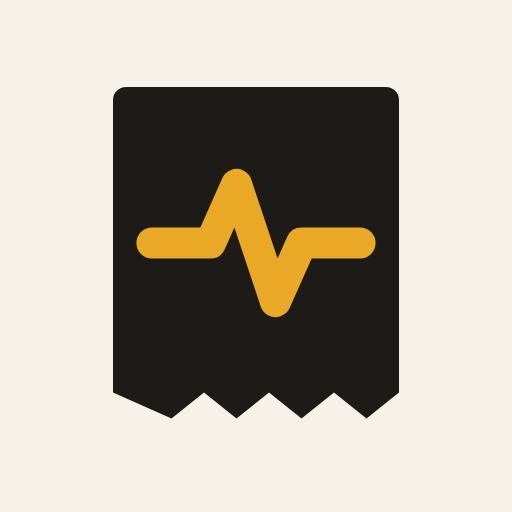
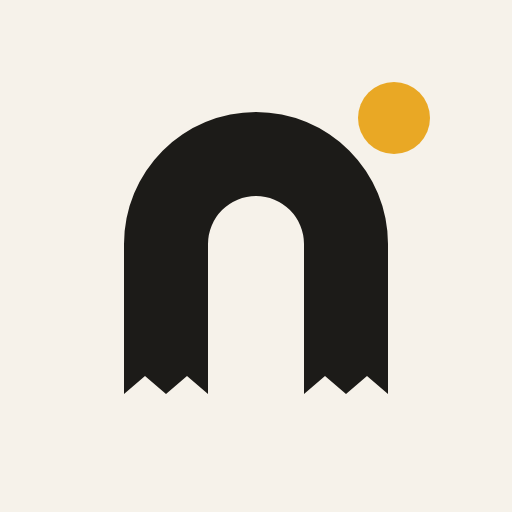
D-10 tanda Nadi baru: n dari kertas nota sobek dengan titik denyut

Changed region(s): [[0.2188, 0.1562, 0.8438, 0.8125]]

diff --git a/apps/web/src/components/ui/logo-jalur.test.ts b/apps/web/src/components/ui/logo-jalur.test.ts
@@ -1,0 +1,28 @@
+import { describe, expect, it } from "vitest";
+import { JALUR_N, KOTAK_TANDA, TITIK, svgTanda } from "./logo-jalur";
+
+const angka = (d: string) => (d.match(/-?\d+(\.\d+)?/g) ?? []).map(Number);
+
+describe("tanda Nadi", () => {
+  it("semua titik jalur di dalam kotak 32", () => {
+    for (const n of angka(JALUR_N)) expect(n >= 0 && n <= KOTAK_TANDA).toBe(true);
+  });
+  it("titik denyut di dalam kotak dan tidak menyentuh lengkung n", () => {
+    expect(TITIK.cx + TITIK.r).toBeLessThanOrEqual(KOTAK_TANDA);
+    expect(TITIK.cy - TITIK.r).toBeGreaterThanOrEqual(0);
+    // lengkung luar: pusat (16, 15), jari-jari 11; jarak tepi titik ke lengkung minimal 1 satuan (terpisah di 16 px)
+    const jarak = Math.hypot(TITIK.cx - 16, TITIK.cy - 15) - 11 - TITIK.r;
+    expect(jarak).toBeGreaterThanOrEqual(1);
+  });
+  it("kaki n tidak lebih tipis dari 3 satuan (terbaca di 16 px)", () => {
+    expect(12 - 5).toBeGreaterThanOrEqual(3);
+    expect(27 - 20).toBeGreaterThanOrEqual(3);
+  });
+  it("svgTanda memakai warna yang diminta dan latar opsional", () => {
+    const s = svgTanda("#111111", "#222222", "#333333", 4);
+    expect(s).toContain('fill="#111111"');
+    expect(s).toContain('fill="#222222"');
+    expect(s).toContain('fill="#333333"');
+    expect(svgTanda("#1", "#2")).not.toContain("<rect");
+  });
+});

diff --git a/apps/web/src/components/ui/logo-jalur.ts b/apps/web/src/components/ui/logo-jalur.ts
@@ -1,0 +1,14 @@
+// Bentuk tanda Nadi (D-10, docs/design/iterasi/logo): huruf n dari secarik kertas nota yang kedua kakinya sobek, dan satu titik
+// denyut kunyit. Satu sumber untuk komponen React dan skrip ikon (scripts/buat-ikon.mjs). Kotak 32 x 32.
+export const KOTAK_TANDA = 32;
+export const JALUR_N =
+  "M5 27.5L6.75 26 8.5 27.5 10.25 26 12 27.5V15a4 4 0 0 1 8 0V27.5L21.75 26 23.5 27.5 25.25 26 27 27.5V15A11 11 0 0 0 5 15Z";
+export const TITIK = { cx: 27.5, cy: 4.5, r: 3 } as const;
+
+/** SVG mandiri (untuk ikon PNG dan favicon) dengan warna eksplisit. */
+export function svgTanda(tinta: string, kunyit: string, latar?: string, pad = 0): string {
+  const s = (KOTAK_TANDA - 2 * pad) / KOTAK_TANDA;
+  const isi = `<g transform="translate(${pad} ${pad}) scale(${s})"><path d="${JALUR_N}" fill="${tinta}"/><circle cx="${TITIK.cx}" cy="${TITIK.cy}" r="${TITIK.r}" fill="${kunyit}"/></g>`;
+  const bg = latar ? `<rect width="32" height="32" fill="${latar}"/>` : "";
+  return `<svg xmlns="http://www.w3.org/2000/svg" viewBox="0 0 32 32">${bg}${isi}</svg>`;
+}

diff --git a/apps/web/src/components/ui/logo.tsx b/apps/web/src/components/ui/logo.tsx
@@ -1,9 +1,11 @@
-/** Logo Nadi: selembar nota bertepi sobek dengan satu denyut kunyit melintas, ditambah huruf "nadi". */
+import { JALUR_N, TITIK } from "./logo-jalur";
+
+/** Tanda Nadi: huruf n dari secarik kertas nota yang kakinya sobek, dengan satu titik denyut kunyit (D-10). */
 export function TandaNadi({ ukuran = 28, className = "" }: { ukuran?: number; className?: string }) {
   return (
     <svg width={ukuran} height={ukuran} viewBox="0 0 32 32" className={className} role="img" aria-label="Nadi">
-      <path d="M6 3h20a1 1 0 0 1 1 1v22.5l-2.5 2-2.5-2-2.5 2-2.5-2-2.5 2-2.5-2-2.5 2L5 26.5V4a1 1 0 0 1 1-1Z" fill="var(--tinta)" />
-      <path d="M8 15h4.5l2-4.5 3 9 2-4.5H24" fill="none" stroke="var(--kunyit)" strokeWidth="2.4" strokeLinecap="round" strokeLinejoin="round" />
+      <path d={JALUR_N} fill="var(--tinta)" />
+      <circle cx={TITIK.cx} cy={TITIK.cy} r={TITIK.r} fill="var(--kunyit)" />
     </svg>
   );
 }

diff --git a/apps/web/public/sw.js b/apps/web/public/sw.js
@@ -1,5 +1,5 @@
 // Service worker Nadi: halaman luring untuk navigasi saat sinyal hilang. Data tidak di-cache di sini (keamanan data usaha).
-const CACHE = "nadi-luring-v2";
+const CACHE = "nadi-luring-v3";
 const LURING = "/luring";
 
 self.addEventListener("install", (e) => {

diff --git a/docs/design/iterasi/logo/README.md b/docs/design/iterasi/logo/README.md
@@ -1,0 +1,38 @@
+# Iterasi D-10: identitas dan logo
+
+3 Nov 2026. Mengikuti docs/design/ITERASI.md.
+
+## 1. Riset
+- **Kategori** (dilihat langsung di Chrome, docs/design/riset-landing.md): majoo memakai wordmark berwarna dengan angka 7;
+  Talenta segitiga merah; Jurnal bentuk A biru; Gadjian wordmark; Kledo wordmark dengan huruf e berwarna; Deputy tanda bintang;
+  Gusto dan Homebase wordmark huruf kecil. Hampir semua: huruf kecil + satu warna merek kuat + satu bentuk kecil. Tidak ada yang
+  membawa dunia kertas kerja.
+- **Sumber primer**: Apple Human Interface Guidelines, App icons (dibaca 3 Nov 2026): satu gagasan inti dengan sesedikit mungkin
+  bentuk; huruf awal boleh sebagai penanda; hindari garis sangat tipis dan sudut tajam karena hilang di ukuran kecil; hindari
+  meniru komponen UI; uji di ukuran kecil.
+- **Logo lama** (sebelum.svg): nota bertepi sobek dengan garis denyut. Masalah: garis EKG adalah klise aplikasi kesehatan; di 16 px
+  hanya kotak gelap dengan coretan; tanda dan huruf tidak berhubungan.
+
+## 2. Teknik yang dipelajari
+Uji skala dan uji tukar logo: setiap konsep dirender di 16/24/32/64/180 px terang dan gelap dalam satu lembar
+(apps/web/scripts/logo-lembar.mjs), lalu ditanya: bila nama diganti, apakah tanda ini tetap cocok untuk aplikasi lain?
+
+## 3. Konsep dan kritik
+| Konsep | Gagasan | Kritik | Putusan |
+|---|---|---|---|
+| A cap (putaran-1) | huruf n di dalam cap toko miring | terbaca "huruf di kotak bulat", cocok untuk aplikasi apa saja; garis cap memadat di 16 px | ditolak (gagal uji tukar logo) |
+| B stabilo (putaran-1) | huruf n di atas sapuan stabilo | di semua ukuran terbaca sebagai **gembok** (kesan aplikasi keamanan) | ditolak |
+| C titik (putaran-1, 2) | huruf n + satu titik denyut kunyit | sangat jelas di 16 px, tetapi tanpa ciri kertas; titik mirip titik notifikasi | cadangan |
+| D kertas (putaran-2) | n dari secarik kertas nota yang kedua kakinya sobek + titik denyut | 16 px terbaca n + titik; mulai 64 px sobekan nota muncul sehingga makna "kertas kerja yang hidup" terbaca bertahap; risiko mirip siluet hantu dikurangi dengan gerigi lebih dangkal | **dipilih** |
+| E kertas + stabilo (putaran-2) | D dengan coretan stabilo sebagai pengganti titik | coretan terbaca sebagai topi/pinggiran, mengganggu bentuk n | ditolak |
+
+## 4. Yang dipasang
+- Bentuk di apps/web/src/components/ui/logo-jalur.ts (satu sumber); TandaNadi/LogoNadi memakai token warna sehingga mode gelap
+  otomatis; scripts/buat-ikon.mjs membuat ikon PWA 192/512/maskable, apple-touch-icon, src/app/icon.png, src/app/apple-icon.png.
+- Tes logo-jalur.test.ts: titik di dalam kotak, jarak titik ke lengkung >= 1 satuan (tes merah dulu: jarak awal 0,8, titik digeser),
+  kaki >= 3 satuan, warna svgTanda.
+- akhir/sebelum-sesudah.png: banding lama dan baru di 16-180 px terang/gelap.
+
+## 5. Uji 5 detik versi loop
+Di 32 px: "n dengan titik kuning" (huruf awal nama terbaca). Di 180 px: "kertas sobek berbentuk n". Tidak terbaca sebagai aplikasi
+kesehatan lagi. Uji dengan orang sasaran sungguhan belum dilakukan (butuh Tristan, tidak ditunggu).

diff --git a/loop/LEARN.md b/loop/LEARN.md
@@ -110,3 +110,4 @@ Hal yang dipelajari dari sumber primer, dengan URL dan tanggal akses. Tulis sebe
 - 3 Nov 2026: Harga model AI dari halaman pricing resmi penyedia model AI (diakses 3 Nov): model berat $2/$10 per MTok (cache baca 0,05x = $0,10, tulis 5 m $2,50), model ringan $0,10/$0,50 (prompt > 100.000 token $0,50/$2,50), batch diskon 50%. supabase.com/pricing: Pro $25/bln, 8 GB disk lalu $0,125/GB, 100 GB storage lalu $0,0213/GB, 250 GB egress lalu $0,09/GB, 2 jt panggilan fungsi lalu $2/jt, 5 jt pesan Realtime lalu $2,50/jt, 100.000 MAU; Free 500 MB DB, 1 GB storage, 5 GB egress, 500.000 panggilan fungsi. Kurs JISDOR BI 3 Nov 2026 Rp18.148 (bi.go.id/id/statistik/informasi-kurs/jisdor). Dipakai H-01 (docs/quality/biaya.md).
 - 3 Nov 2026: Lomba umum dibaca langsung: dicoding.com/challenges/971 (AI Impact Challenge, umum via Microsoft Elevate Training Center, tim <= 3, daftar 1-30 Apr 2026, juara 1 Rp10 jt), bi.go.id/id/Hackaton (BI-OJK 2025: individu dan korporasi, kategori Profesional/Mahasiswa, total Rp600 jt), hackathon.simkopdes.go.id (WNI >= 17 th ber-KTP, tim 2-3, Top 10 wajib alih HAKI ke Kementerian Koperasi).
 - 3 Nov 2026: Landing pesaing dilihat langsung di Chrome (majoo.id, talenta.co, gadjian.com, kledo.com, jurnal.id/id, gusto.com, joinhomebase.com, deputy.com): pola generik dan pola berguna di docs/design/riset-landing.md. Resize jendela Chrome ke 390 tidak mengubah innerWidth (tetap 1920); foto HP lewat Playwright.
+- 3 Nov 2026: Apple HIG App icons (developer.apple.com/design/human-interface-guidelines/app-icons, dibaca lewat Chrome): sederhana, satu gagasan inti, bentuk minimal, huruf awal boleh, hindari garis sangat tipis dan sudut tajam, hindari meniru komponen UI. Node 24 bisa import berkas .ts langsung dari skrip .mjs (peringatan MODULE_TYPELESS_PACKAGE_JSON saja). Dipakai D-10.
